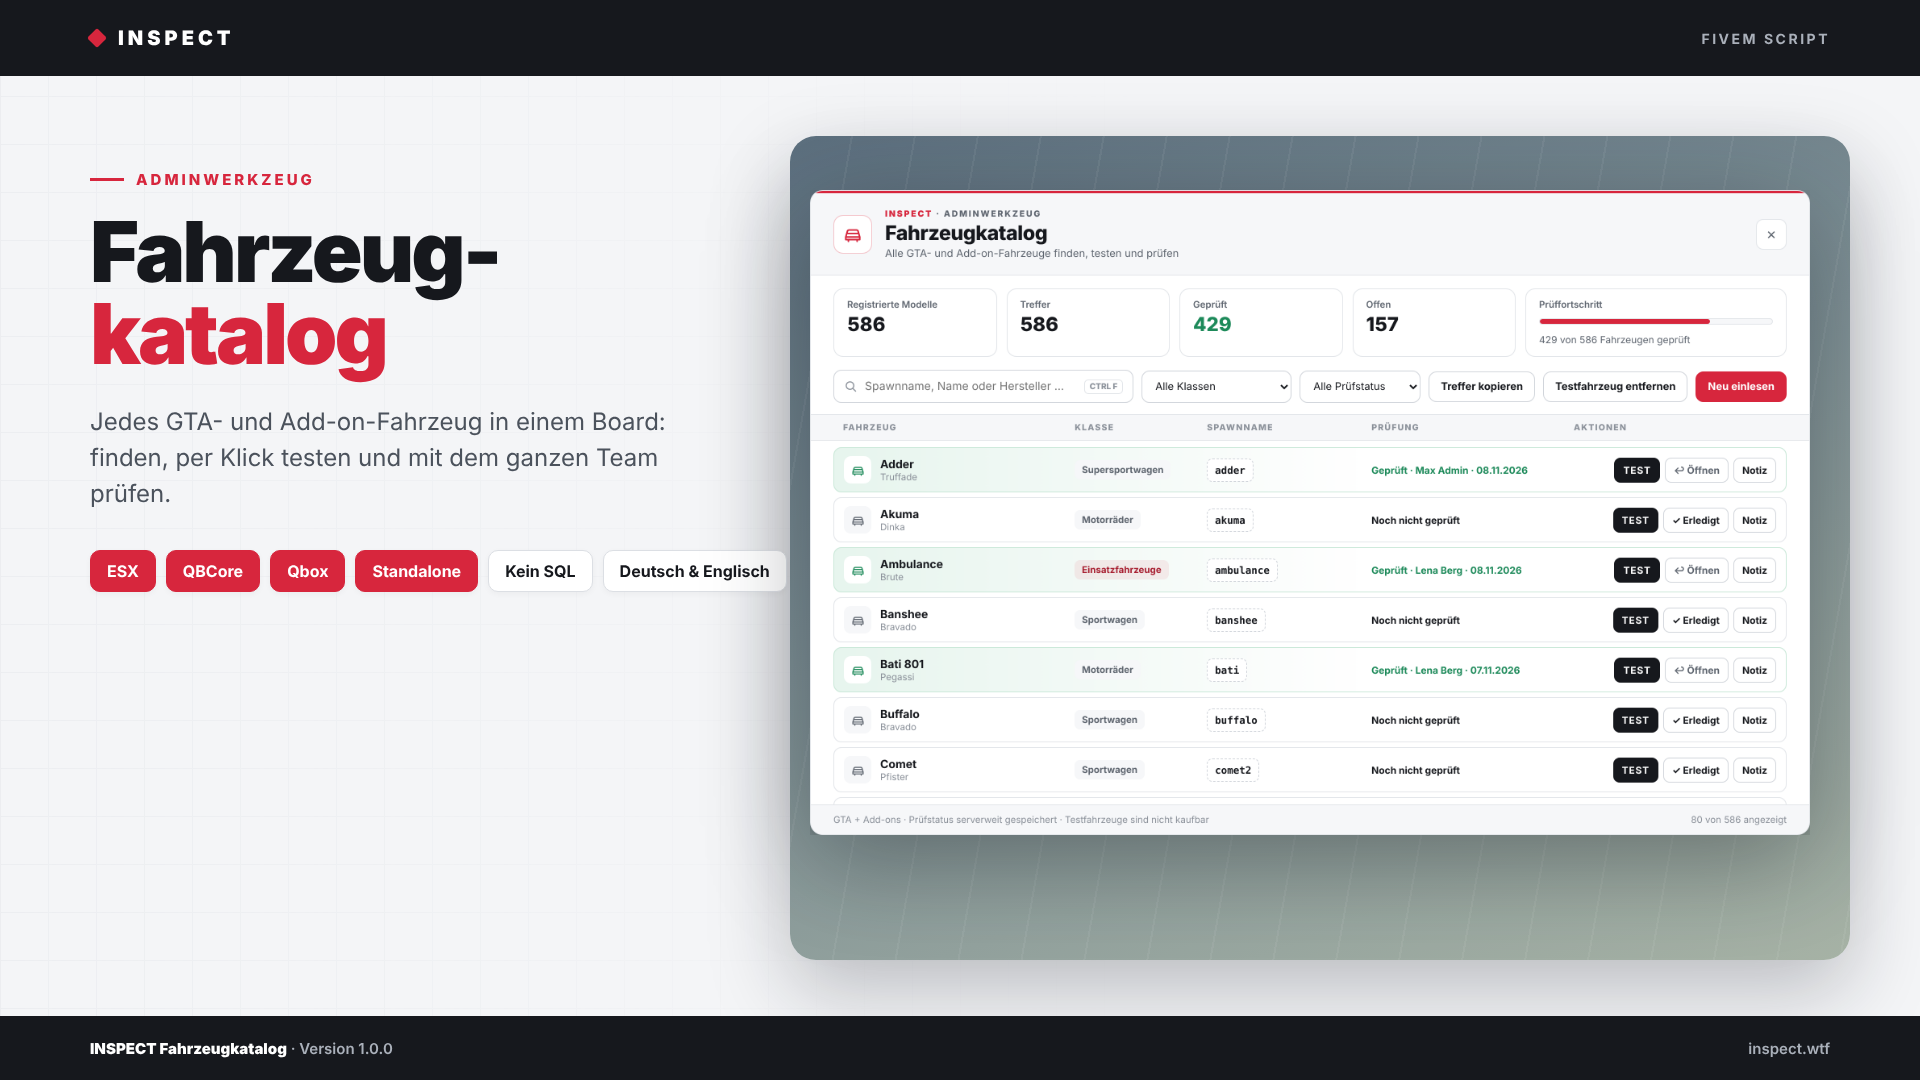
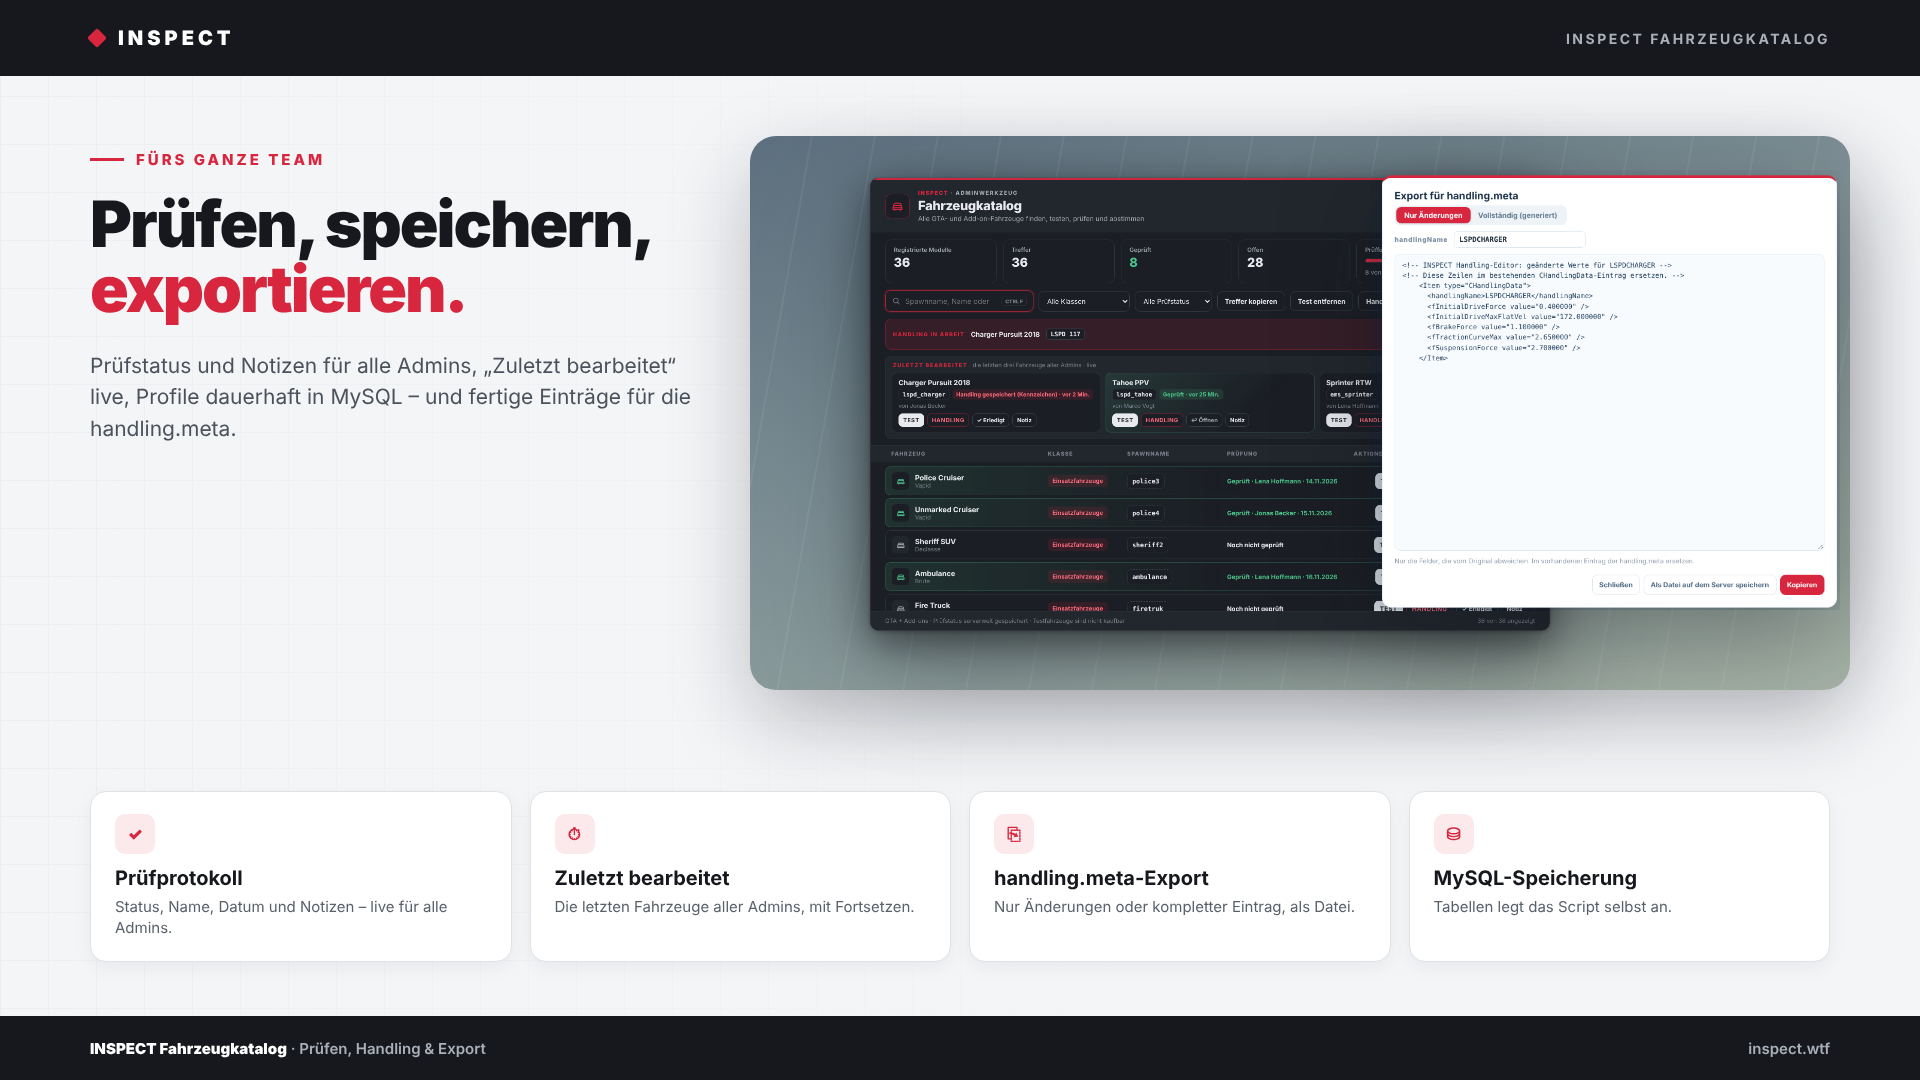
Produktpräsentation „Fahrzeug-Studio“ aktualisiert

diff --git a/README.md b/README.md
@@ -2,46 +2,165 @@
 
 <div align="center">
 
-<a href="https://shop.inspect.wtf/produkt/inspect-fahrzeugkatalog"><img src="assets/showcase/banner.svg" alt="INSPECT Fahrzeugkatalog – Alle GTA- &amp; Add-on-Fahrzeuge finden, testen und prüfen – SecuroX Inspect" width="100%"></a>
+<a href="https://shop.inspect.wtf/fahrzeug-studio"><img src="assets/showcase/banner.svg" alt="Fahrzeug-Studio – SecuroX Inspect" width="100%"></a>
 
 <p>
-  <a href="https://shop.inspect.wtf/produkt/inspect-fahrzeugkatalog"><img src="https://img.shields.io/badge/Preis-12%2C99%C2%A0%E2%82%AC-c1121f?style=for-the-badge&labelColor=121417" alt="Preis 12,99 €" height="28"></a>
-  <img src="https://img.shields.io/badge/Version-1.0.0-2b2f36?style=for-the-badge&labelColor=121417" alt="Version 1.0.0" height="28">
+  <a href="https://shop.inspect.wtf/fahrzeug-studio"><img src="https://img.shields.io/badge/Preis-ab%2012%2C99%C2%A0%E2%82%AC-c1121f?style=for-the-badge&labelColor=121417" alt="Preis ab 12,99 €" height="28"></a>
   <img src="https://img.shields.io/badge/Sofort%20verf%C3%BCgbar-2b2f36?style=for-the-badge" alt="Sofort verfügbar" height="28">
   <img src="https://img.shields.io/badge/ESX%20%C2%B7%20QBCore%20%C2%B7%20Qbox%20%C2%B7%20Standalone-2b2f36?style=for-the-badge" alt="ESX · QBCore · Qbox · Standalone" height="28">
   <img src="https://img.shields.io/badge/Support-Deutsch-2b2f36?style=for-the-badge&labelColor=121417" alt="Support Deutsch" height="28">
 </p>
 
 <p>
-  <a href="https://shop.inspect.wtf/produkt/inspect-fahrzeugkatalog"><img src="https://img.shields.io/badge/Jetzt%20kaufen%20%C2%B7%2012%2C99%C2%A0%E2%82%AC-c1121f?style=for-the-badge" alt="Jetzt kaufen · 12,99 €" height="36"></a>
+  <a href="https://shop.inspect.wtf/fahrzeug-studio"><img src="https://img.shields.io/badge/Alle%20Produkte%20im%20Shop-c1121f?style=for-the-badge" alt="Alle Produkte im Shop" height="36"></a>
   <a href="https://discord.gg/inspect"><img src="https://img.shields.io/badge/Fragen%3F%20Discord-5865F2?style=for-the-badge&logo=discord&logoColor=white" alt="Discord" height="36"></a>
   <a href="https://www.tiktok.com/@securox_inspect"><img src="https://img.shields.io/badge/TikTok-000000?style=for-the-badge&logo=tiktok&logoColor=white" alt="TikTok" height="36"></a>
 </p>
 
 <br>
 
-<a href="https://shop.inspect.wtf/produkt/inspect-fahrzeugkatalog"><img src="assets/showcase/bild-1.png" alt="INSPECT Fahrzeugkatalog – Alle GTA- &amp; Add-on-Fahrzeuge finden, testen und prüfen" width="100%"></a>
+<a href="https://shop.inspect.wtf/fahrzeug-studio"><img src="assets/showcase/bild-1.png" alt="Fahrzeug-Studio" width="100%"></a>
 
 </div>
 
-> 🇬🇧 **English:** INSPECT Fahrzeugkatalog – Alle GTA- & Add-on-Fahrzeuge finden, testen und prüfen – FiveM script (ESX, QBCore, Qbox) by SecuroX Inspect. Purchase and licensing exclusively at [shop.inspect.wtf](https://shop.inspect.wtf). Product details below are in German – questions are welcome on [Discord](https://discord.gg/inspect).
+> 🇬🇧 **English:** Fahrzeug-Studio – browser-based FiveM vehicle editor for .ytd/.yft files – textures, 3D models and optimisation (ESX, QBCore, Qbox) by SecuroX Inspect. Purchase and licensing exclusively at [shop.inspect.wtf](https://shop.inspect.wtf). Product details below are in German – questions are welcome on [Discord](https://discord.gg/inspect).
 
 <br>
 
-## Das Wichtigste auf einen Blick
+## Überblick
+
+Fahrzeuge finden, testen, prüfen – und jetzt live abstimmen.
+
+Wer viele eigene Fahrzeuge einbindet, kennt das Problem: Welches Modell heißt wie? Spawnt es überhaupt? Sind Lichter, Sirene und Texturen in Ordnung, wer aus dem Team hat es schon geprüft – und warum fährt es sich wie ein Schrank? INSPECT Fahrzeugkatalog liest alle registrierten GTA- und Add-on-Fahrzeuge direkt aus dem Spiel und bringt Prüfung und Handling in ein Werkzeug.
+
+In Sekunden gefunden  
+Suche nach Spawnname, Fahrzeugname oder Hersteller, Filter nach Klasse, Prüfstatus oder Notiz. Ein Klick kopiert den Spawnnamen, ein weiterer alle Treffer.
+
+Testfahrt per Klick  
+TEST erstellt das Fahrzeug serverseitig über OneSync vor dir und setzt dich ans Steuer – mit eigenem Kennzeichen, auf Wunsch Schlüssel, vollem Tank und Volltuning. Testfahrzeuge landen nie in Garagen oder der Datenbank.
+
+Live-Handling-Editor (neu in 2.0)  
+HANDLING öffnet ein Seitenpanel direkt am Fahrzeug. Jeder Wert wirkt sofort, während du fährst. Einfach-Modus mit Klartext-Reglern, Experten-Modus mit allen CHandlingData-Feldern, Flags als Schalter mit Beschreibung. Messwerte für 0–100 km/h, Bremsweg und Vmax direkt im Panel. Gespeichert wird live für dieses Fahrzeug, dauerhaft pro Kennzeichen oder für das ganze Modell. Fertige Einträge für die handling.meta exportierst du mit einem Klick – nur die Änderungen oder den kompletten Eintrag inklusive SubHandlingData.
+
+Prüfprotokoll fürs ganze Team  
+Markiere Fahrzeuge als geprüft, Name und Datum werden automatisch gespeichert, Notizen wie „Sirene fehlt“ sieht jeder Admin. „Zuletzt bearbeitet“ zeigt live die letzten Fahrzeuge aller Admins, mit Fortsetzen ohne neuen Spawn.
+
+Sauber und sicher  
+Jede Aktion wird serverseitig auf Adminrechte geprüft, jede Handling-Speicherung auf Fahrzeug, Modell, Felder und Wertebereiche. Profile werden nur am eigenen Fahrzeug angewendet, ohne Dauerscan. Alle Daten liegen in MySQL, die Tabellen legt das Script selbst an.
+
+Schnell installiert  
+Ordner einfügen, nach oxmysql starten, ACE-Recht vergeben – fertig. Helles und dunkles Design, Deutsch und Englisch.
+
+Voraussetzungen: oxmysql und OneSync.
+
+## Produkte & Preise
+
+| Produkt | Wofür | Preis | |
+|:--|:--|--:|:--:|
+| **INSPECT CAR Live-Handling-Editor – Alle Fahrzeuge finden, testen, prüfen und mit dem Live-Handling-Editor abstimmen**<br><sub>⭐ Empfehlung</sub> | Das Adminwerkzeug für jeden Server mit eigenen Fahrzeugen: Alle Modelle in einem Board, Testfahrt per Klick, Prüfprotokoll fürs Team und neu in 2.0 ein Live-Handling-Editor mit Messwerten, Kennzeichen- und Modellprofilen und handling.meta-Export. ESX, QBCore, Qbox oder Standalone, Deutsch und Englisch. | 39,99 € | [Kaufen](https://shop.inspect.wtf/produkt/inspect-fahrzeugkatalog) |
+| **INSPECT Fahrzeugkatalog – Alle GTA- & Add-on-Fahrzeuge finden, testen und prüfen** | Das Adminwerkzeug für jeden Server mit Add-on-Fahrzeugen: Alle registrierten Modelle in einem Board, Testfahrt per Klick mit eigenem Kennzeichen, Schlüssel und vollem Tank sowie ein Prüfprotokoll mit Name, Datum und Notizen fürs ganze Team. ESX, QBCore, Qbox oder Standalone – ohne Datenbank. | 12,99 € | [Kaufen](https://shop.inspect.wtf/produkt/inspect-fahrzeugkatalog) |
+
+## Kompatibilität
+
+| | |
+|:--|:--|
+| Frameworks | **ESX** · **QBCore** · **Qbox** · **Standalone** |
+| Plattform | FiveM (GTA V) |
+
+## Einblicke
 
 <table>
   <tr>
-    <td width="50%" valign="top">✔&nbsp; <b>Kompatibilität · ESX Legacy, QBCore und Qbox mit automatischer Framework-Erkennung, zusätzlich Standalone über ACE</b></td>
-    <td width="50%" valign="top">✔&nbsp; <b>Kompatibilität · Keine Datenbank nötig – Prüfstatus wird serverseitig in der Ressource gespeichert</b></td>
+    <td width="50%"><img src="assets/showcase/bild-2.png" alt="INSPECT CAR Live-Handling-Editor – Alle Fahrzeuge finden, testen, prüfen und mit dem Live-Handling-Editor abstimmen" width="100%"></td>
+    <td width="50%"><img src="assets/showcase/bild-3.png" alt="INSPECT CAR Live-Handling-Editor – Alle Fahrzeuge finden, testen, prüfen und mit dem Live-Handling-Editor abstimmen" width="100%"></td>
   </tr>
   <tr>
-    <td width="50%" valign="top">✔&nbsp; <b>Kompatibilität · Benachrichtigungen über eigenes INSPECT-Toast, ox_lib, ESX, QBCore oder GTA-Standard</b></td>
-    <td width="50%" valign="top">✔&nbsp; <b>Katalog · Alle registrierten GTA- und Add-on-Fahrzeuge live aus dem Spiel gelesen</b></td>
+    <td width="50%"><img src="assets/showcase/bild-4.png" alt="INSPECT Fahrzeugkatalog – Alle GTA- &amp; Add-on-Fahrzeuge finden, testen und prüfen" width="100%"></td>
+    <td width="50%"><img src="assets/showcase/bild-5.png" alt="INSPECT Fahrzeugkatalog – Alle GTA- &amp; Add-on-Fahrzeuge finden, testen und prüfen" width="100%"></td>
+  </tr>
+  <tr>
+    <td width="50%"><img src="assets/showcase/bild-6.png" alt="INSPECT Fahrzeugkatalog – Alle GTA- &amp; Add-on-Fahrzeuge finden, testen und prüfen" width="100%"></td>
+    <td width="50%"></td>
   </tr>
 </table>
 
-## Überblick
+## In Aktion sehen
+
+- 🎞 Videos zu INSPECT CAR Live-Handling-Editor – Alle Fahrzeuge finden, testen, prüfen und mit dem Live-Handling-Editor abstimmen direkt auf der [Produktseite im Shop](https://shop.inspect.wtf/produkt/inspect-fahrzeugkatalog)
+- 🎞 Videos zu INSPECT Fahrzeugkatalog – Alle GTA- & Add-on-Fahrzeuge finden, testen und prüfen direkt auf der [Produktseite im Shop](https://shop.inspect.wtf/produkt/inspect-fahrzeugkatalog)
+
+Neue Clips und Vorschauen regelmäßig auf TikTok: **[@securox_inspect](https://www.tiktok.com/@securox_inspect)**
+
+## Details zu den Produkten
+
+<details open>
+<summary><b>INSPECT CAR Live-Handling-Editor – Alle Fahrzeuge finden, testen, prüfen und mit dem Live-Handling-Editor abstimmen</b> · 39,99 €</summary>
+<br>
+
+Fahrzeuge finden, testen, prüfen – und jetzt live abstimmen.
+
+Wer viele eigene Fahrzeuge einbindet, kennt das Problem: Welches Modell heißt wie? Spawnt es überhaupt? Sind Lichter, Sirene und Texturen in Ordnung, wer aus dem Team hat es schon geprüft – und warum fährt es sich wie ein Schrank? INSPECT Fahrzeugkatalog liest alle registrierten GTA- und Add-on-Fahrzeuge direkt aus dem Spiel und bringt Prüfung und Handling in ein Werkzeug.
+
+In Sekunden gefunden  
+Suche nach Spawnname, Fahrzeugname oder Hersteller, Filter nach Klasse, Prüfstatus oder Notiz. Ein Klick kopiert den Spawnnamen, ein weiterer alle Treffer.
+
+Testfahrt per Klick  
+TEST erstellt das Fahrzeug serverseitig über OneSync vor dir und setzt dich ans Steuer – mit eigenem Kennzeichen, auf Wunsch Schlüssel, vollem Tank und Volltuning. Testfahrzeuge landen nie in Garagen oder der Datenbank.
+
+Live-Handling-Editor (neu in 2.0)  
+HANDLING öffnet ein Seitenpanel direkt am Fahrzeug. Jeder Wert wirkt sofort, während du fährst. Einfach-Modus mit Klartext-Reglern, Experten-Modus mit allen CHandlingData-Feldern, Flags als Schalter mit Beschreibung. Messwerte für 0–100 km/h, Bremsweg und Vmax direkt im Panel. Gespeichert wird live für dieses Fahrzeug, dauerhaft pro Kennzeichen oder für das ganze Modell. Fertige Einträge für die handling.meta exportierst du mit einem Klick – nur die Änderungen oder den kompletten Eintrag inklusive SubHandlingData.
+
+Prüfprotokoll fürs ganze Team  
+Markiere Fahrzeuge als geprüft, Name und Datum werden automatisch gespeichert, Notizen wie „Sirene fehlt“ sieht jeder Admin. „Zuletzt bearbeitet“ zeigt live die letzten Fahrzeuge aller Admins, mit Fortsetzen ohne neuen Spawn.
+
+Sauber und sicher  
+Jede Aktion wird serverseitig auf Adminrechte geprüft, jede Handling-Speicherung auf Fahrzeug, Modell, Felder und Wertebereiche. Profile werden nur am eigenen Fahrzeug angewendet, ohne Dauerscan. Alle Daten liegen in MySQL, die Tabellen legt das Script selbst an.
+
+Schnell installiert  
+Ordner einfügen, nach oxmysql starten, ACE-Recht vergeben – fertig. Helles und dunkles Design, Deutsch und Englisch.
+
+Voraussetzungen: oxmysql und OneSync.
+
+- Kompatibilität · ESX Legacy, QBCore, Qbox oder Standalone über ACE
+- Kompatibilität · Schlüssel: qb-vehiclekeys, qbx_vehiclekeys, wasabi_carlock, MrNewbVehicleKeys, cd_garage
+- Kompatibilität · Tank: ox_fuel, LegacyFuel, cdn-fuel, ps-fuel, lc_fuel
+- Katalog · Alle registrierten GTA- und Add-on-Fahrzeuge direkt aus dem Spiel
+- Katalog · Suche nach Spawnname, Name oder Hersteller, Filter nach Klasse, Status und Notiz
+- Katalog · Spawnnamen einzeln oder alle Treffer kopieren
+- Testfahrt · Serverseitiger OneSync-Spawn mit eigenem Kennzeichen
+- Testfahrt · Schlüssel, voller Tank und optionales Volltuning
+- Testfahrt · Vorheriges Testfahrzeug wird automatisch entfernt
+- Prüfung · Status mit Name, Datum und Notiz – live für alle Admins
+- Prüfung · Fortschrittsbalken für das ganze Team
+- Verlauf · Zuletzt bearbeitet: die letzten Fahrzeuge aller Admins, live
+- Handling · Live-Editor direkt am Fahrzeug, jeder Wert wirkt sofort
+- Handling · Einfach-Modus mit Klartext-Reglern
+- Handling · Experten-Modus mit allen CHandlingData-Feldern, Suche, Vektoren und Flags
+- Handling · Speichern live, pro Kennzeichen oder für das ganze Modell
+- Handling · Messwerte 0–100 km/h, Bremsweg 100–0 und Vmax im Panel
+- Handling · Fahren-Modus per Taste, Panel links oder rechts
+- Handling · Export für die handling.meta inkl. SubHandlingData, optional als Datei
+- Handling · Kennzeichen-Profile folgen dem Fahrzeug durch Garage und Neustart
+- Handling · Werte von Tuning und anderen Scripts bleiben erhalten
+- Handling · Fortsetzen ohne neuen Spawn
+- Sicherheit · Serverseitige Prüfung von Rechten, Fahrzeug, Modell, Feldern und Wertebereichen
+- Performance · Profile nur am eigenen Fahrzeug, kein Dauerscan
+- Speicherung · MySQL, Tabellen werden automatisch angelegt
+- Design · Helles und dunkles Design, pro Admin gemerkt
+- Logs · Discord-Webhook für Prüfungen und Testfahrten
+- Sprache · Komplett auf Deutsch und Englisch
+- Exports · Prüfstatus, Handling-Profile und Kennzeichen-Wechsel für andere Scripts
+- Voraussetzungen · oxmysql und OneSync
+
+**39,99 €** &nbsp;–&nbsp; einmaliger Kaufpreis · Download und Lizenz im Kundenkonto
+
+**[➜ INSPECT CAR Live-Handling-Editor – Alle Fahrzeuge finden, testen, prüfen und mit dem Live-Handling-Editor abstimmen im Shop kaufen](https://shop.inspect.wtf/produkt/inspect-fahrzeugkatalog)**
+
+</details>
+
+<details>
+<summary><b>INSPECT Fahrzeugkatalog – Alle GTA- &amp; Add-on-Fahrzeuge finden, testen und prüfen</b> · 12,99 €</summary>
+<br>
 
 Schluss mit Spawnnamen-Listen in Excel.
 
@@ -62,15 +181,10 @@ Jede Aktion wird serverseitig auf Adminrechte geprüft. Der Katalog läuft ohne 
 Schnell installiert  
 Ordner einfügen, ensure eintragen, ACE-Recht vergeben – fertig. Framework, Sprache, Kennzeichen und Integrationen stellt ihr in einer übersichtlichen Config ein. Eine Anleitung auf Deutsch und Englisch liegt bei.
 
-## Kompatibilität
-
-| | |
-|:--|:--|
-| Frameworks | **ESX** · **QBCore** · **Qbox** · **Standalone** |
-| Plattform | FiveM (GTA V) |
-
-## Alle weiteren Funktionen
-
+- Kompatibilität · ESX Legacy, QBCore und Qbox mit automatischer Framework-Erkennung, zusätzlich Standalone über ACE
+- Kompatibilität · Keine Datenbank nötig – Prüfstatus wird serverseitig in der Ressource gespeichert
+- Kompatibilität · Benachrichtigungen über eigenes INSPECT-Toast, ox_lib, ESX, QBCore oder GTA-Standard
+- Katalog · Alle registrierten GTA- und Add-on-Fahrzeuge live aus dem Spiel gelesen
 - Katalog · Anzeige von Fahrzeugname, Hersteller, Klasse und Spawnname
 - Katalog · Suche nach Spawnname, Fahrzeugname oder Hersteller
 - Katalog · Filter nach allen 23 Fahrzeugklassen sowie offen, geprüft oder mit Notiz
@@ -81,10 +195,6 @@ Ordner einfügen, ensure eintragen, ACE-Recht vergeben – fertig. Framework, Sp
 - Testfahrt · Voller Tank automatisch: ox_fuel, LegacyFuel, cdn-fuel, ps-fuel, lc_fuel
 - Testfahrt · Optional Volltuning für Motor, Getriebe, Bremsen, Federung und Turbo
 - Testfahrt · Nie in Garagen, owned_vehicles oder der Datenbank gespeichert
-
-<details>
-<summary><b>16 weitere Funktionen anzeigen</b></summary>
-
 - Testfahrt · Aufräumen beim Verlassen des Servers und beim Neustart der Ressource
 - Testfahrt · Unterstützt Autos, Motorräder, Boote, Hubschrauber, Flugzeuge, U-Boote und Trailer
 - Prüfprotokoll · Geprüft-Status pro Fahrzeug mit Name des Admins und Datum
@@ -102,30 +212,15 @@ Ordner einfügen, ensure eintragen, ACE-Recht vergeben – fertig. Framework, Sp
 - Installation · Anleitung auf Deutsch und Englisch als README
 - Voraussetzungen · OneSync
 
-</details>
-
-## Einblicke
-
-<table>
-  <tr>
-    <td width="50%"><img src="assets/showcase/bild-2.png" alt="INSPECT Fahrzeugkatalog – Alle GTA- &amp; Add-on-Fahrzeuge finden, testen und prüfen" width="100%"></td>
-    <td width="50%"><img src="assets/showcase/bild-3.png" alt="INSPECT Fahrzeugkatalog – Alle GTA- &amp; Add-on-Fahrzeuge finden, testen und prüfen" width="100%"></td>
-  </tr>
-</table>
-
-## In Aktion sehen
-
-- 🎞 Videos direkt auf der [Produktseite im Shop](https://shop.inspect.wtf/produkt/inspect-fahrzeugkatalog)
-
-Neue Clips und Vorschauen regelmäßig auf TikTok: **[@securox_inspect](https://www.tiktok.com/@securox_inspect)**
-
-## Preis
-
 **12,99 €** &nbsp;–&nbsp; einmaliger Kaufpreis · Download und Lizenz im Kundenkonto
+
+**[➜ INSPECT Fahrzeugkatalog – Alle GTA- & Add-on-Fahrzeuge finden, testen und prüfen im Shop kaufen](https://shop.inspect.wtf/produkt/inspect-fahrzeugkatalog)**
+
+</details>
 
 <div align="center">
 
-<a href="https://shop.inspect.wtf/produkt/inspect-fahrzeugkatalog"><img src="https://img.shields.io/badge/Jetzt%20im%20Shop%20kaufen-c1121f?style=for-the-badge" alt="Jetzt im Shop kaufen" height="36"></a>
+<a href="https://shop.inspect.wtf/fahrzeug-studio"><img src="https://img.shields.io/badge/Alle%20Produkte%20im%20Shop%20ansehen-c1121f?style=for-the-badge" alt="Alle Produkte im Shop ansehen" height="36"></a>
 
 <sub>Sichere Zahlung mit PayPal oder Kreditkarte · Rechnung als PDF · Support auf Deutsch</sub>
 
